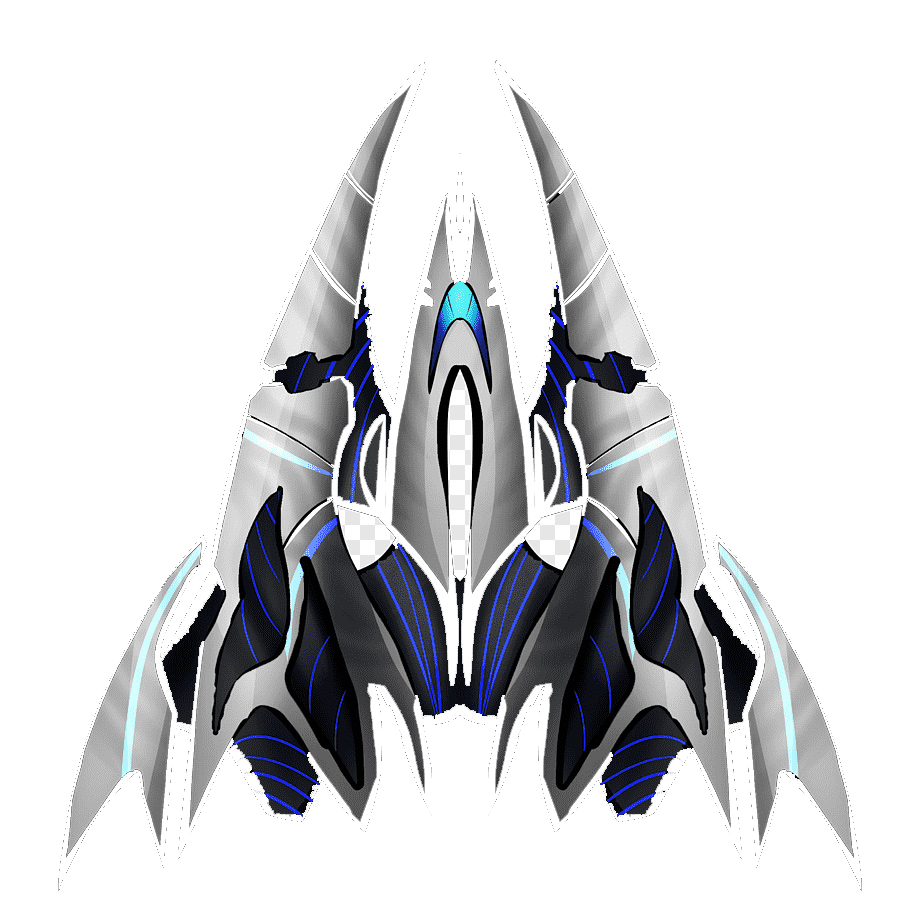
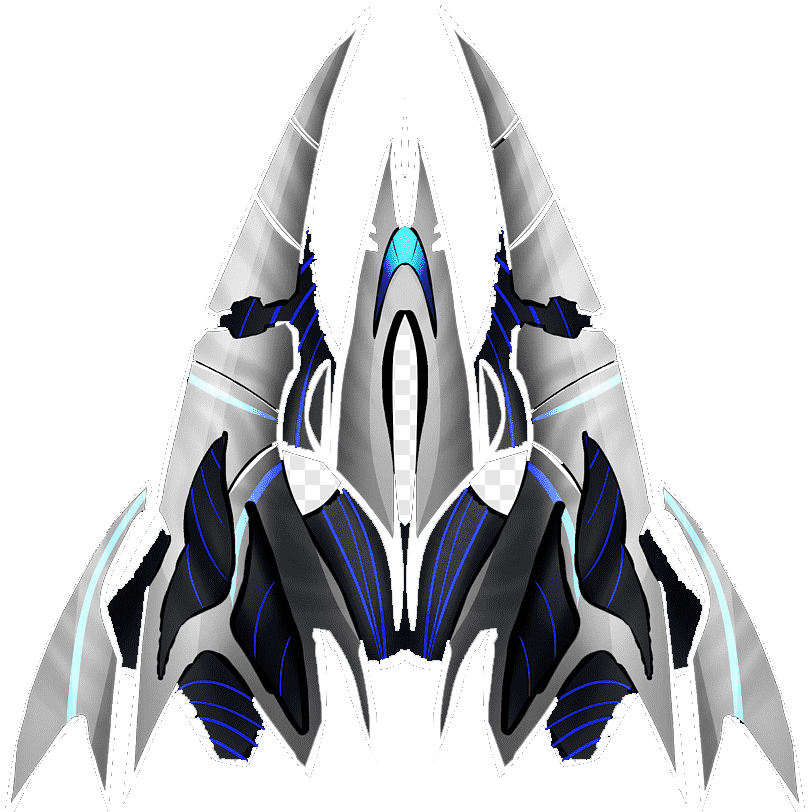
cambio de dimensiones de imagenes

diff --git a/classes.js b/classes.js
@@ -24,8 +24,8 @@ class MotherShip {
       this.strength = strength,
       this.x = x,
       this.y = y
-    this.width = $canvas.width * .25
-    this.height = $canvas.height * .1
+    this.width = 100
+    this.height = 60
     this.img = new Image()
     this.img.src = "./images/nave1.png"
     this.vel = 10
